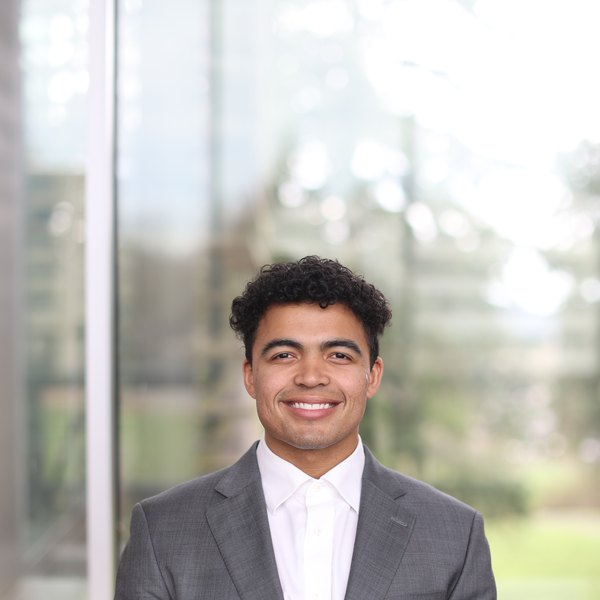
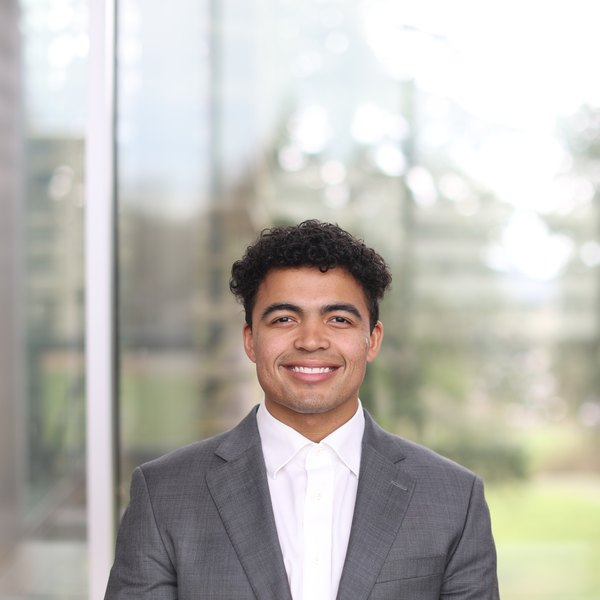
Hero polish: tighten bio line, recenter headshot

diff --git a/index.html b/index.html
@@ -394,7 +394,7 @@
         <div>
           <div class="header-eyebrow">Sourcing Operations Portfolio</div>
           <div class="header-name">Kenyon Woodley</div>
-          <div class="header-bio">BS Manufacturing &amp; Supply Chain Management<br>WWU &nbsp;|&nbsp; Graduating June 2026 &nbsp;|&nbsp; Aerospace, Defense &amp; Tech</div>
+          <div class="header-bio">BS Manufacturing &amp; Supply Chain Management<br>Graduating June 2026 &nbsp;|&nbsp; Aerospace, Defense &amp; Tech</div>
         </div>
       </div>
       <p class="hero-positioning">I turn messy sourcing and supply chain decisions into <strong>practical tools</strong> for hardware, aerospace, and defense teams.</p>
